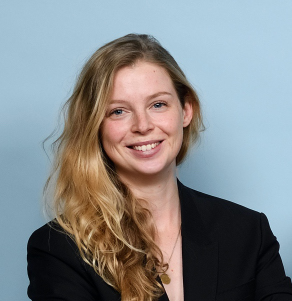
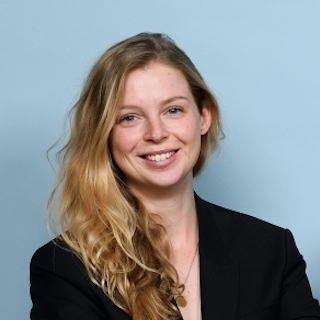
Add new people.

diff --git a/index.html b/index.html
@@ -57,7 +57,8 @@
               <li>
                 <p class="text-small-margin">
                   <span style="color: #1b7677;">[June 2023]</span>
-                  Two papers (<a href="https://openaccess.thecvf.com/content/CVPR2023W/XAI4CV/html/Gulshad_Hierarchical_Explanations_for_Video_Action_Recognition_CVPRW_2023_paper.html">"Hierarchical Explanations for Video Action Recognition"</a>, <a href="https://openaccess.thecvf.com/content/CVPR2023W/NFVLR/html/Huang_Causalainer_Causal_Explainer_for_Automatic_Video_Summarization_CVPRW_2023_paper.html">"Causalainer: Causal Explainer for Automatic Video Summarization"</a>) have been published by Sadaf Gulshad and Jia-Hong Huang in the workshops of the IEEE/CVF Conference on Computer Vision and Pattern Recognition.
+                  Two papers (<a href="https://openaccess.thecvf.com/content/CVPR2023W/XAI4CV/html/Gulshad_Hierarchical_Explanations_for_Video_Action_Recognition_CVPRW_2023_paper.html">"Hierarchical Explanations for Video Action Recognition"</a>, <a href="https://openaccess.thecvf.com/content/CVPR2023W/NFVLR/html/Huang_Causalainer_Causal_Explainer_for_Automatic_Video_Summarization_CVPRW_2023_paper.html">"Causalainer: Causal Explainer for Automatic Video Summarization"</a>) have been published by
+                  Sadaf Gulshad and Jia-Hong Huang in the workshops of the IEEE/CVF Conference on Computer Vision and Pattern Recognition.
                 </p>
               </li>
               <!-------------------------------------------------------------------------------------------->
@@ -314,6 +315,18 @@
             <div>PhD Student</div>
             <div>
               <a href="https://www.linkedin.com/in/goncalobfm">LinkedIn</a>
+            </div>
+            <div>&nbsp;</div>
+          </div>
+          <!-------------------------------------------------------------------------------------------->
+          <div class="flex-column">
+            <img src="img/people/yijia.jpeg">
+            <h3>Yijia Zheng</h3>
+            <div>PhD Student</div>
+            <div>
+              <a href="https://zhengyijia.github.io/">Website</a>
+              &nbsp;|&nbsp;
+              <a href="https://www.linkedin.com/in/yijia-zheng-9ba3a0193/">LinkedIn</a>
             </div>
             <div>&nbsp;</div>
           </div>
